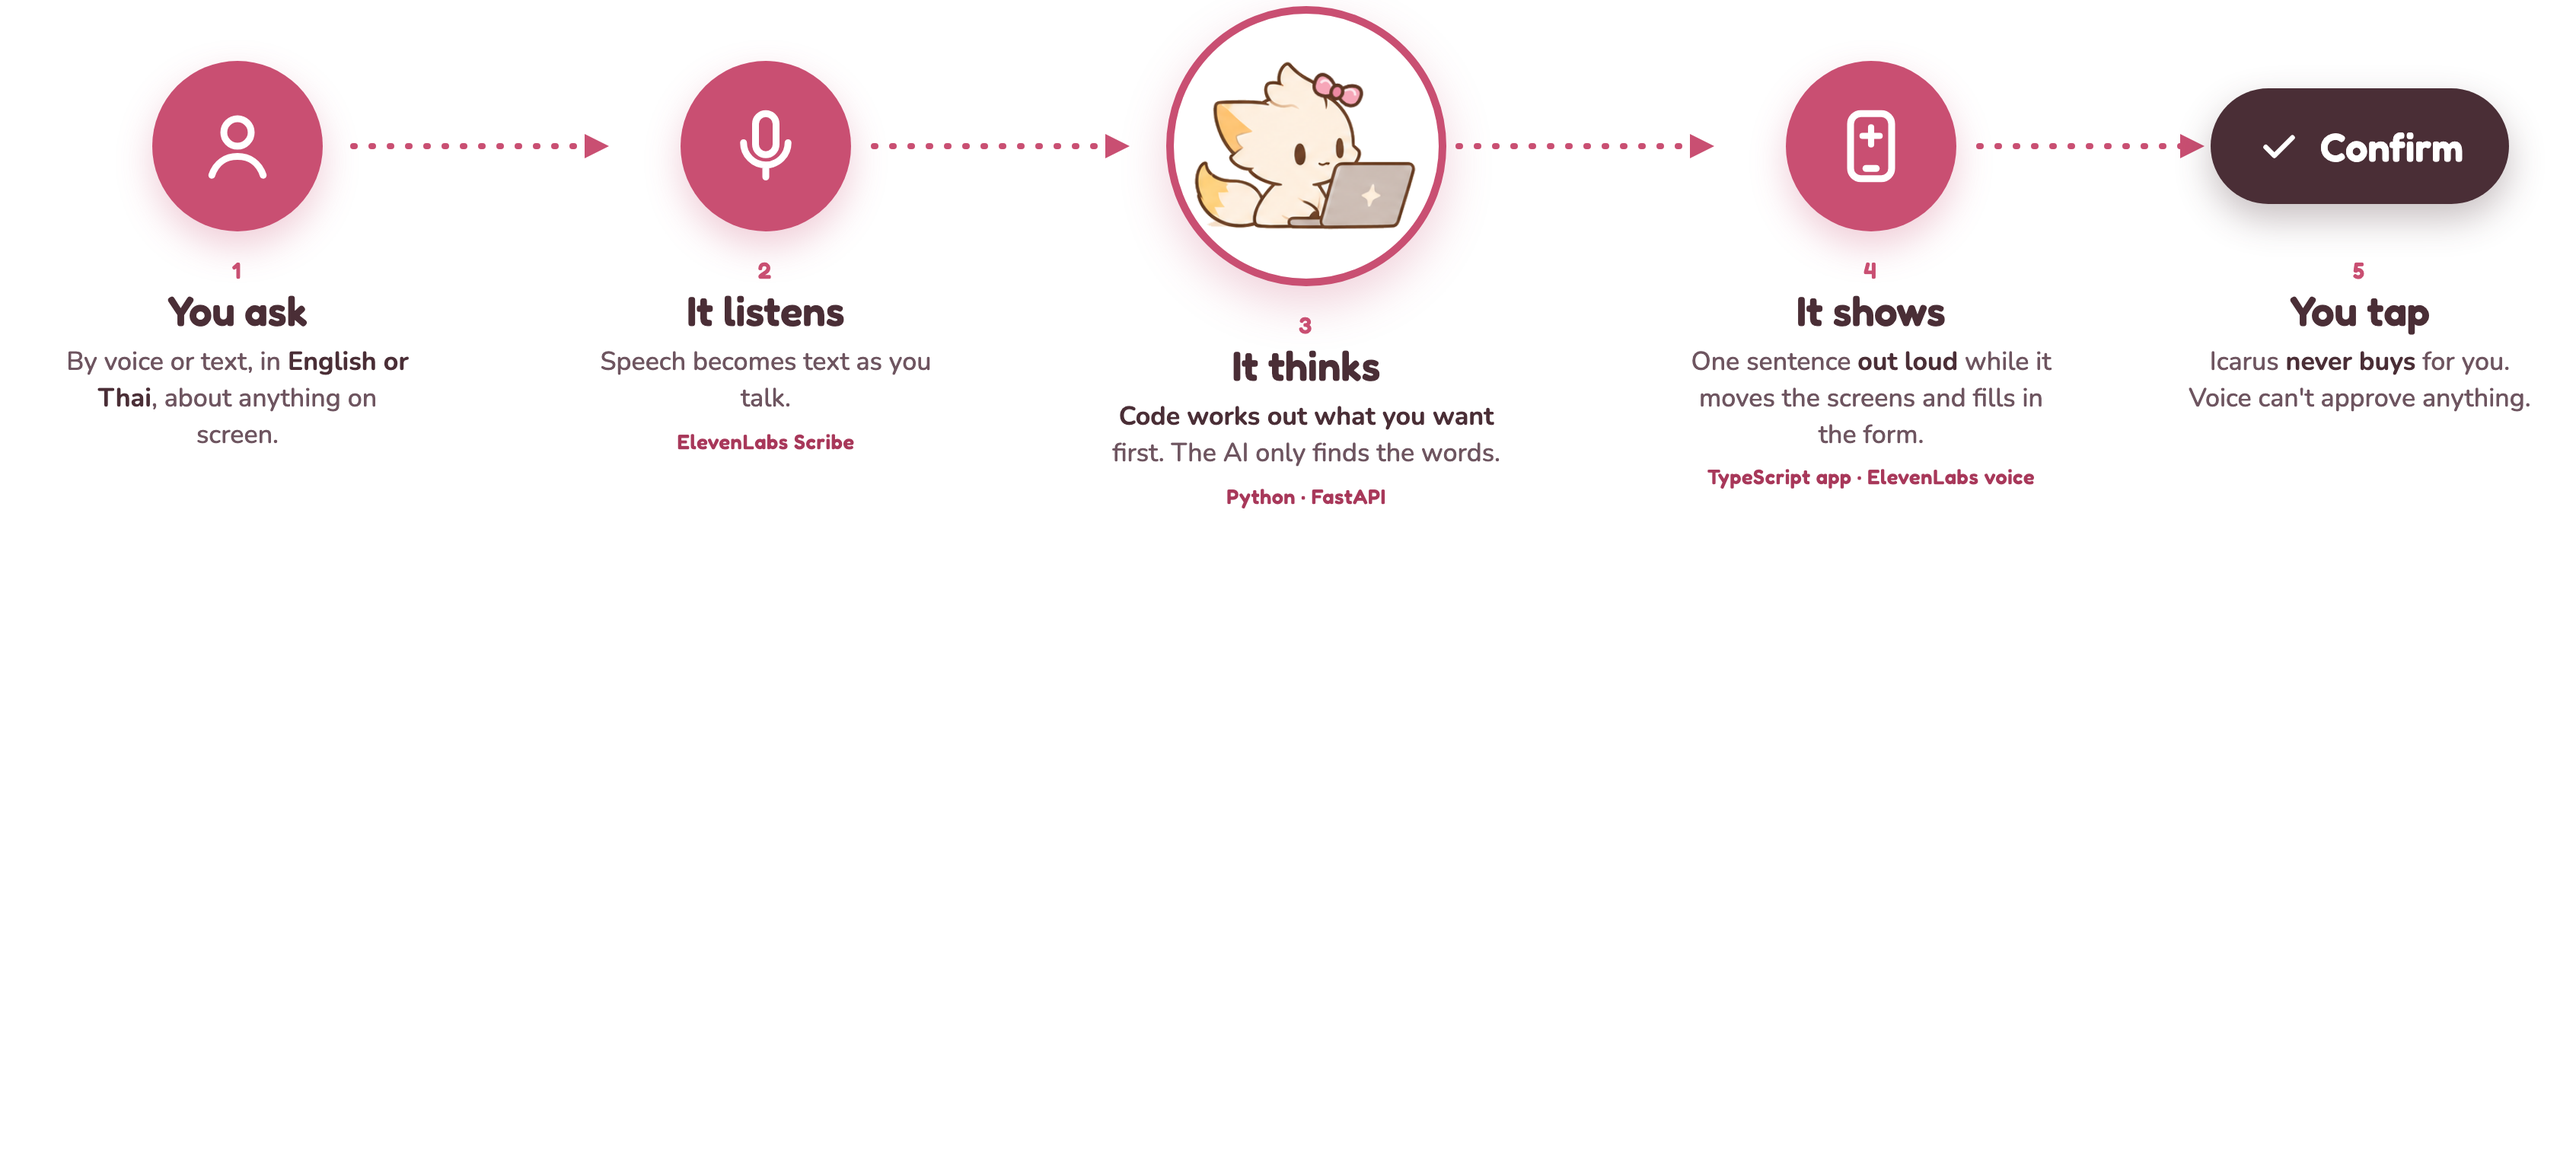
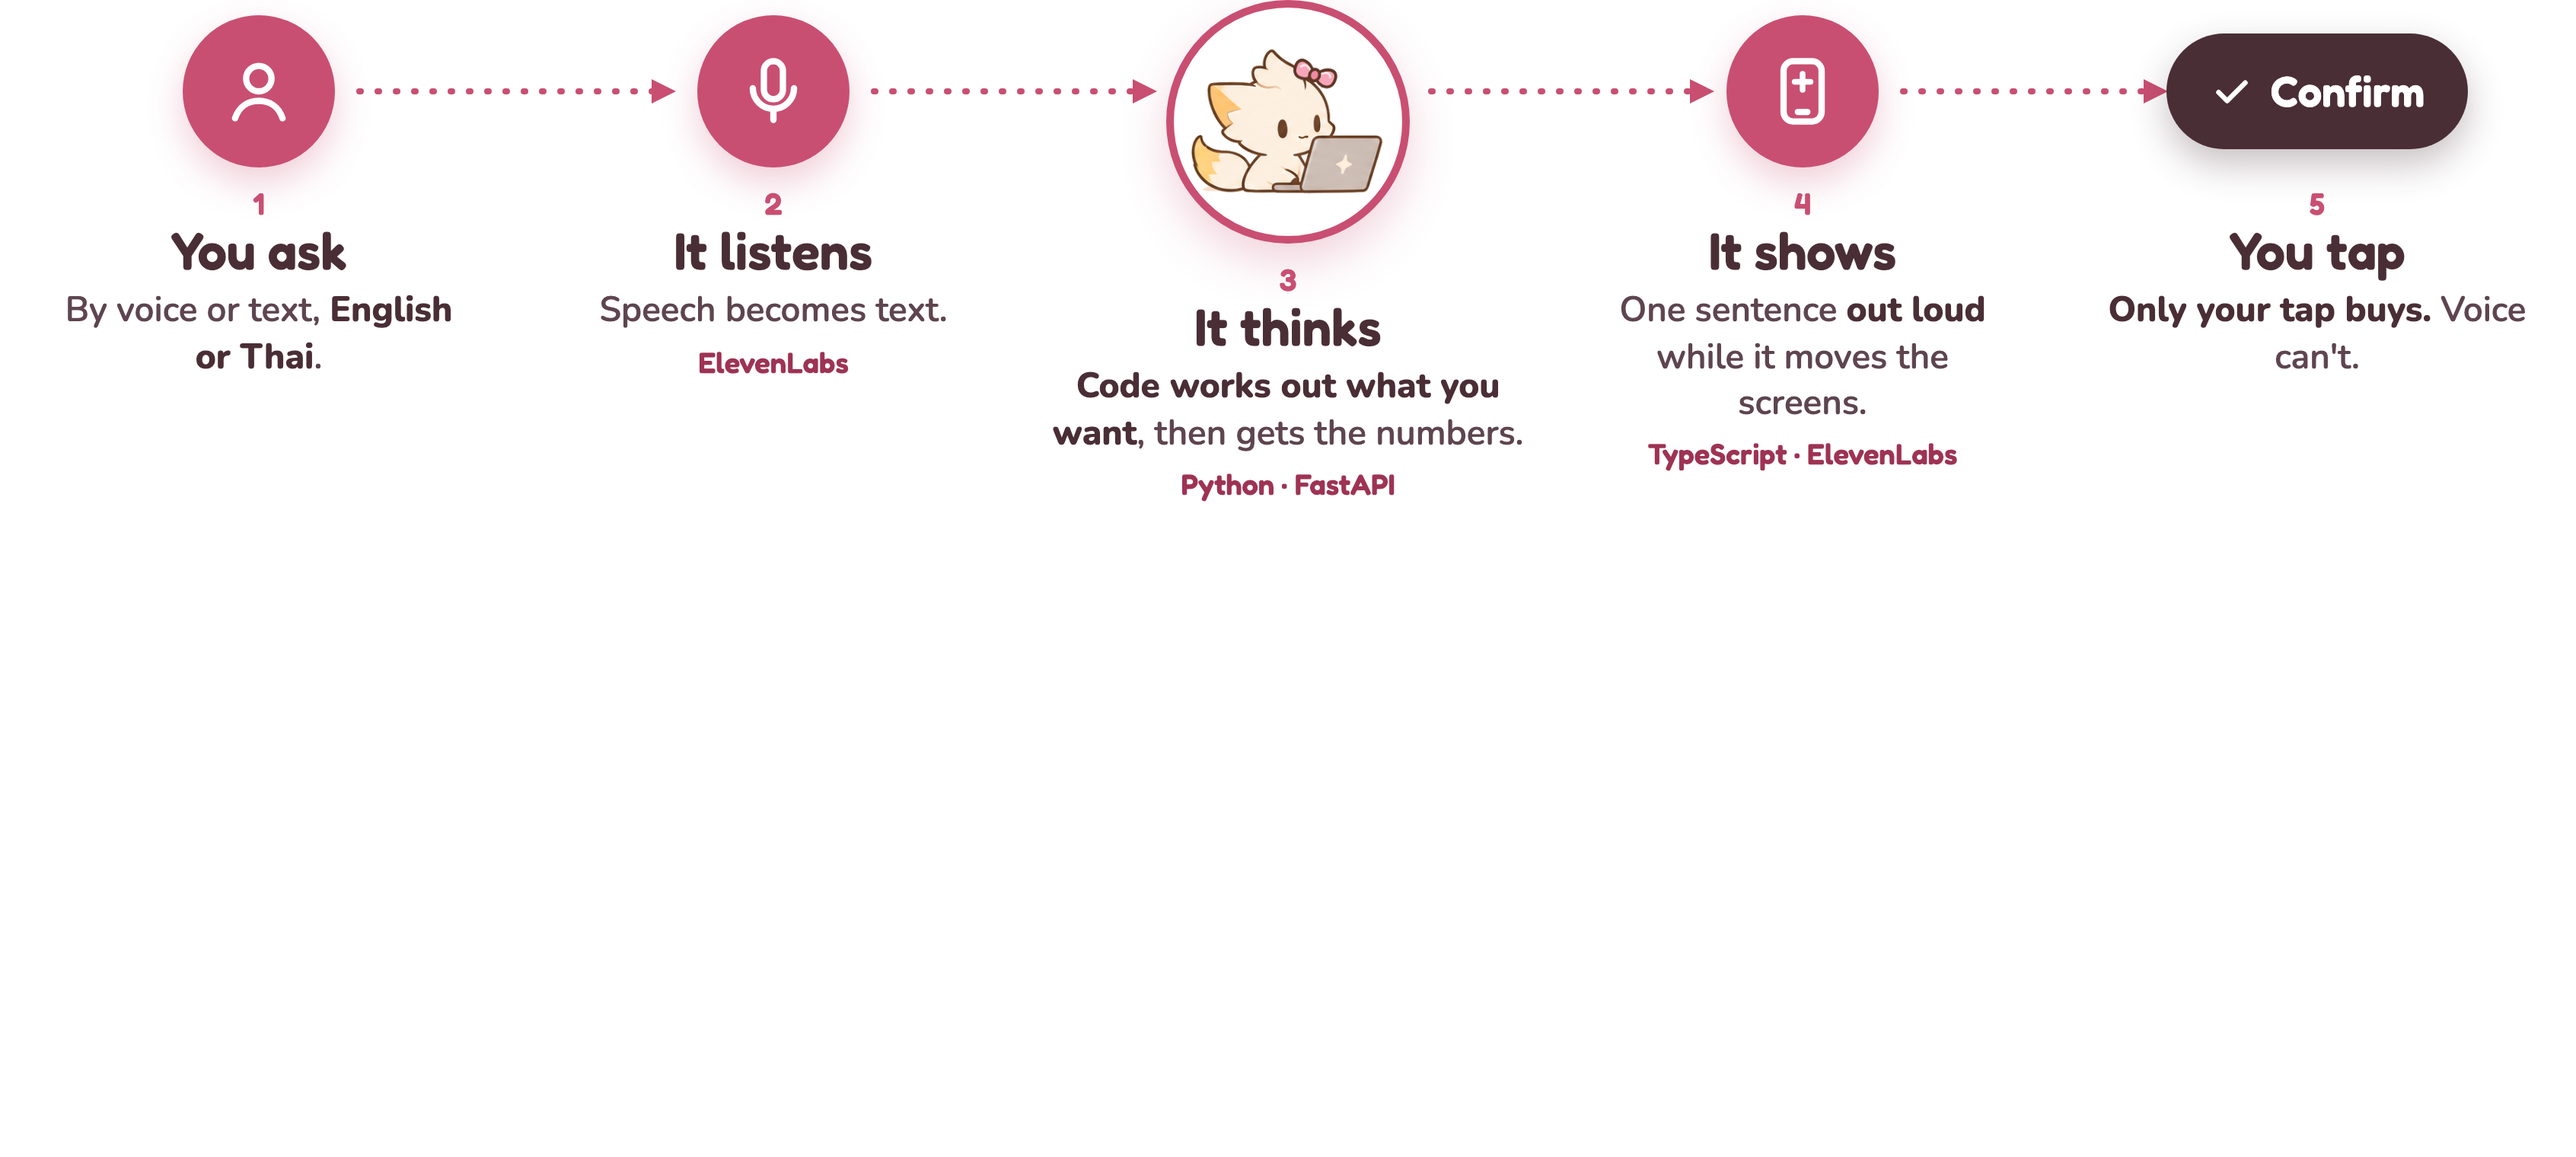
Honest tour line, live-price label on the review screen, bigger architecture type
- The tour's "should I buy some?" answer offered to set up a purchase right after
  refusing to pick; it now offers facts (how gold's price moved, what it is).
- The buy review screen said "Prices are demo data" with live prices; it now says
  prices are live and the account is a demo.
- docs/architecture.html: half the words and about 1.4x the type, so it reads on a
  slide at laptop size; "prepared answers grow with every question" was more than
  the code does: new questions are logged, so more answers get added.

Found by the deck audit.

diff --git a/docs/architecture.html b/docs/architecture.html
@@ -1,5 +1,6 @@
 <!doctype html>
-<!-- How Icarus works, drawn with symbols instead of boxes, for the deck and the README.
+<!-- How Icarus works, drawn with symbols instead of boxes, for the deck and the README. Big type: it has to read on
+     a slide shown at laptop size.
      Render: PLAYWRIGHT=/path/to/node_modules/playwright node docs/render-architecture.cjs
      It writes docs/media/architecture.png (whole picture) and architecture-1/2/3.png (transparent layers that the
      deck reveals one after the other). ?layer=1|2|3 shows one layer only. -->
@@ -7,144 +8,134 @@
 <head>
 <meta charset="utf-8">
 <title>How Icarus works</title>
-<link rel="stylesheet" href="https://fonts.googleapis.com/css2?family=Fredoka:wght@500;600&family=Nunito:wght@500;700&display=swap">
+<link rel="stylesheet" href="https://fonts.googleapis.com/css2?family=Fredoka:wght@500;600&family=Nunito:wght@600;700;800&display=swap">
 <style>
-  :root { --pink: #C94F72; --deep: #A8385A; --rose: #F7D2DC; --blush: #FDE3EA; --paper: #FFF7F9; --ink: #4A2E36; --soft: #6E5560; --gold: #E9A83B; }
+  :root { --pink: #C94F72; --deep: #9E3354; --paper: #FFF7F9; --ink: #4A2E36; --soft: #5E4550; --gold: #E9A83B; }
   * { box-sizing: border-box; margin: 0; }
   body { width: 1692px; height: 760px; background: var(--paper); font-family: Nunito, system-ui, sans-serif; color: var(--ink); position: relative; overflow: hidden; }
   body.layers { background: transparent; }
   .layer { position: absolute; left: 0; top: 0; width: 1692px; height: 760px; }
   .node { position: absolute; display: flex; flex-direction: column; align-items: center; text-align: center; }
-  .disc { width: 112px; height: 112px; border-radius: 50%; background: var(--pink); display: flex; align-items: center; justify-content: center;
+  .disc { width: 100px; height: 100px; border-radius: 50%; background: var(--pink); display: flex; align-items: center; justify-content: center;
     box-shadow: 0 10px 24px rgba(201, 79, 114, .28); }
-  .disc svg { width: 54px; height: 54px; }
-  .num { font: 600 15px Fredoka, sans-serif; letter-spacing: 1.5px; color: var(--pink); margin-top: 16px; }
-  h3 { font: 600 27px/1.15 Fredoka, sans-serif; color: var(--ink); margin-top: 2px; }
-  p { font-size: 17px; line-height: 1.4; color: var(--soft); margin-top: 6px; }
-  p b { color: var(--ink); font-weight: 700; }
-  .tag { font: 600 13.5px Fredoka, sans-serif; color: var(--deep); margin-top: 8px; letter-spacing: .3px; }
-  .label { position: absolute; font: 600 15px Fredoka, sans-serif; letter-spacing: 2px; text-transform: uppercase; color: var(--pink); }
+  .disc svg { width: 50px; height: 50px; }
+  .num { font: 600 20px Fredoka, sans-serif; color: var(--pink); margin-top: 12px; }
+  h3 { font: 600 34px/1.1 Fredoka, sans-serif; color: var(--ink); }
+  p { font-size: 23px; line-height: 1.32; font-weight: 600; color: var(--soft); margin-top: 6px; }
+  p b { color: var(--ink); font-weight: 800; }
+  .tag { font: 600 19px Fredoka, sans-serif; color: var(--deep); margin-top: 6px; }
+  .label { position: absolute; font: 600 19px Fredoka, sans-serif; letter-spacing: 2px; text-transform: uppercase; color: var(--deep); }
   .exit { position: absolute; display: flex; align-items: center; gap: 14px; }
-  .exit .mini { width: 46px; height: 46px; border-radius: 50%; background: var(--gold); display: flex; align-items: center; justify-content: center; flex: none; }
-  .exit .mini svg { width: 24px; height: 24px; }
-  .exit p { margin: 0; font-size: 18px; }
+  .exit .mini { width: 50px; height: 50px; border-radius: 50%; background: var(--gold); display: flex; align-items: center; justify-content: center; flex: none; }
+  .exit .mini svg { width: 26px; height: 26px; }
+  .exit p { margin: 0; font-size: 24px; color: var(--ink); }
 </style>
 </head>
 <body>
 
-<!-- ===== layer 1: the conversation, five stations ===== -->
+<!-- ===== layer 1: the conversation, five steps (centres 170, 508, 846, 1184, 1522) ===== -->
 <div class="layer" data-layer="1">
   <svg width="1692" height="760" viewBox="0 0 1692 760" style="position:absolute;left:0;top:0">
     <defs><marker id="tip" viewBox="0 0 10 10" refX="5" refY="5" markerWidth="5" markerHeight="5" orient="auto"><path d="M1 1 L9 5 L1 9 Z" fill="#C94F72"/></marker></defs>
     <g fill="none" stroke="#C94F72" stroke-width="4" stroke-linecap="round" stroke-dasharray="1 11">
-      <path d="M232 96 L392 96" marker-end="url(#tip)"/>
-      <path d="M574 96 L734 96" marker-end="url(#tip)"/>
-      <path d="M958 96 L1118 96" marker-end="url(#tip)"/>
-      <path d="M1300 96 L1440 96" marker-end="url(#tip)"/>
+      <path d="M236 60 L436 60" marker-end="url(#tip)"/>
+      <path d="M574 60 L752 60" marker-end="url(#tip)"/>
+      <path d="M940 60 L1118 60" marker-end="url(#tip)"/>
+      <path d="M1250 60 L1416 60" marker-end="url(#tip)"/>
     </g>
   </svg>
-
-  <div class="node" style="left:36px;top:40px;width:240px">
+  <div class="node" style="left:30px;top:10px;width:280px">
     <div class="disc"><svg viewBox="0 0 24 24" fill="none" stroke="#fff" stroke-width="2" stroke-linecap="round" stroke-linejoin="round"><circle cx="12" cy="8" r="4"/><path d="M4.5 20.5c1.2-3.6 4-5.5 7.5-5.5s6.3 1.9 7.5 5.5"/></svg></div>
     <div class="num">1</div><h3>You ask</h3>
-    <p>By voice or text, in <b>English or Thai</b>, about anything on screen.</p>
+    <p>By voice or text, <b>English or Thai</b>.</p>
   </div>
-
-  <div class="node" style="left:378px;top:40px;width:250px">
+  <div class="node" style="left:368px;top:10px;width:280px">
     <div class="disc"><svg viewBox="0 0 24 24" fill="none" stroke="#fff" stroke-width="2" stroke-linecap="round"><rect x="9" y="2.5" width="6" height="12" rx="3"/><path d="M5.5 11a6.5 6.5 0 0 0 13 0M12 17.5V21"/></svg></div>
     <div class="num">2</div><h3>It listens</h3>
-    <p>Speech becomes text as you talk.</p>
-    <div class="tag">ElevenLabs Scribe</div>
+    <p>Speech becomes text.</p>
+    <div class="tag">ElevenLabs</div>
   </div>
-
-  <div class="node" style="left:718px;top:4px;width:280px">
-    <div style="width:184px;height:184px;border-radius:50%;background:#fff;border:5px solid var(--pink);display:flex;align-items:center;justify-content:center;box-shadow:0 12px 30px rgba(201,79,114,.25)">
-      <img src="../frontend/public/mascot/bow/working.png" alt="" style="width:150px;height:150px;object-fit:contain">
+  <div class="node" style="left:686px;top:0;width:320px">
+    <div style="width:160px;height:160px;border-radius:50%;background:#fff;border:5px solid var(--pink);display:flex;align-items:center;justify-content:center;box-shadow:0 12px 30px rgba(201,79,114,.25)">
+      <img src="../frontend/public/mascot/bow/working.png" alt="" style="width:130px;height:130px;object-fit:contain">
     </div>
     <div class="num">3</div><h3>It thinks</h3>
-    <p><b>Code works out what you want</b> first. The AI only finds the words.</p>
+    <p><b>Code works out what you want</b>, then gets the numbers.</p>
     <div class="tag">Python · FastAPI</div>
   </div>
-
-  <div class="node" style="left:1104px;top:40px;width:250px">
+  <div class="node" style="left:1044px;top:10px;width:280px">
     <div class="disc"><svg viewBox="0 0 24 24" fill="none" stroke="#fff" stroke-width="2" stroke-linecap="round" stroke-linejoin="round"><rect x="6" y="2.5" width="12" height="19" rx="3"/><path d="M10.5 18.5h3"/><path d="M12 6.5v5m-2.5-2.5h5" stroke-width="1.8"/></svg></div>
     <div class="num">4</div><h3>It shows</h3>
-    <p>One sentence <b>out loud</b> while it moves the screens and fills in the form.</p>
-    <div class="tag">TypeScript app · ElevenLabs voice</div>
+    <p>One sentence <b>out loud</b> while it moves the screens.</p>
+    <div class="tag">TypeScript · ElevenLabs</div>
   </div>
-
-  <div class="node" style="left:1430px;top:58px;width:240px">
-    <div style="height:76px;padding:0 30px;border-radius:38px;background:var(--ink);color:#fff;display:flex;align-items:center;gap:12px;font:600 26px Fredoka,sans-serif;box-shadow:0 10px 24px rgba(74,46,54,.3)">
+  <div class="node" style="left:1382px;top:22px;width:280px">
+    <div style="height:76px;padding:0 28px;border-radius:38px;background:var(--ink);color:#fff;display:flex;align-items:center;gap:10px;font:600 28px Fredoka,sans-serif;box-shadow:0 10px 24px rgba(74,46,54,.3)">
       <svg viewBox="0 0 24 24" width="30" height="30" fill="none" stroke="#fff" stroke-width="2.6" stroke-linecap="round" stroke-linejoin="round"><path d="m5 12.5 4.5 4.5L19 7.5"/></svg>Confirm</div>
-    <div class="num" style="margin-top:34px">5</div><h3>You tap</h3>
-    <p>Icarus <b>never buys</b> for you. Voice can't approve anything.</p>
+    <div class="num" style="margin-top:24px">5</div><h3>You tap</h3>
+    <p><b>Only your tap buys.</b> Voice can't.</p>
   </div>
 </div>
 
-<!-- ===== layer 2: what it thinks with ===== -->
+<!-- ===== layer 2: what it thinks with (centres 210, 634, 1058, 1482) ===== -->
 <div class="layer" data-layer="2">
   <svg width="1692" height="760" viewBox="0 0 1692 760" style="position:absolute;left:0;top:0">
     <defs><marker id="tip2" viewBox="0 0 10 10" refX="5" refY="5" markerWidth="5" markerHeight="5" orient="auto"><path d="M1 1 L9 5 L1 9 Z" fill="#C94F72"/></marker></defs>
     <g fill="none" stroke="#C94F72" stroke-width="4" stroke-linecap="round" stroke-dasharray="1 11">
-      <path d="M858 376 L858 404"/>
-      <path d="M246 404 L1446 404"/>
-      <path d="M246 404 L246 440" marker-end="url(#tip2)"/>
-      <path d="M646 404 L646 440" marker-end="url(#tip2)"/>
-      <path d="M1046 404 L1046 440" marker-end="url(#tip2)"/>
-      <path d="M1446 404 L1446 440" marker-end="url(#tip2)"/>
+      <path d="M846 348 L846 376"/>
+      <path d="M210 376 L1482 376"/>
+      <path d="M210 376 L210 404" marker-end="url(#tip2)"/>
+      <path d="M634 376 L634 404" marker-end="url(#tip2)"/>
+      <path d="M1058 376 L1058 404" marker-end="url(#tip2)"/>
+      <path d="M1482 376 L1482 404" marker-end="url(#tip2)"/>
     </g>
-    <!-- database: prepared answers -->
-    <g transform="translate(206 452)">
+    <g transform="translate(170 414)">
       <path d="M0 14 v52 c0 8 18 14 40 14 s40-6 40-14 V14" fill="#F48FB1"/>
       <path d="M0 40 c0 8 18 14 40 14 s40-6 40-14" fill="none" stroke="#fff" stroke-width="3"/>
       <ellipse cx="40" cy="14" rx="40" ry="14" fill="#C94F72"/>
     </g>
-    <!-- cloud with a spark: the AI -->
-    <g transform="translate(596 460)">
+    <g transform="translate(584 420)">
       <path d="M22 70 h62 a22 22 0 0 0 2-44 a30 30 0 0 0-57-6 a24 24 0 0 0-7 50z" fill="#C94F72"/>
       <path d="M52 30 l5 13 13 5-13 5-5 13-5-13-13-5 13-5z" fill="#fff"/>
     </g>
-    <!-- a chart on a screen: live data -->
-    <g transform="translate(1000 458)">
+    <g transform="translate(1012 418)">
       <rect x="0" y="0" width="92" height="66" rx="10" fill="#C94F72"/>
       <path d="M14 48 l18-17 13 10 20-22 13 9" fill="none" stroke="#fff" stroke-width="5" stroke-linecap="round" stroke-linejoin="round"/>
-      <path d="M34 74 h24" stroke="#C94F72" stroke-width="6" stroke-linecap="round"/>
+      <path d="M34 76 h24" stroke="#C94F72" stroke-width="6" stroke-linecap="round"/>
     </g>
-    <!-- shield: house rules -->
-    <g transform="translate(1410 452)">
+    <g transform="translate(1446 414)">
       <path d="M36 0 L72 13 v25 c0 22-15 37-36 44 C15 75 0 60 0 38 V13z" fill="#C94F72"/>
       <path d="m21 39 10 10 20-21" fill="none" stroke="#fff" stroke-width="5.5" stroke-linecap="round" stroke-linejoin="round"/>
     </g>
   </svg>
-  <div class="label" style="left:884px;top:380px">what it thinks with</div>
-
-  <div class="node" style="left:96px;top:552px;width:300px">
+  <div class="label" style="left:872px;top:340px">what it thinks with</div>
+  <div class="node" style="left:30px;top:506px;width:360px">
     <h3>Prepared answers</h3>
-    <p>Fact sheets for every asset and user, <b>ready before you ask</b>. It grows with every new question.</p>
+    <p>Ready <b>before you ask</b>. New questions are logged, so more get added.</p>
   </div>
-  <div class="node" style="left:496px;top:552px;width:300px">
+  <div class="node" style="left:454px;top:506px;width:360px">
     <h3>AI in the cloud</h3>
-    <p>An open model (<b>Qwen 3.8-27B</b>) words new answers. If it's slow, a <b>backup model</b> answers.</p>
+    <p>Words new answers. A <b>backup model</b> steps in if it's slow.</p>
   </div>
-  <div class="node" style="left:896px;top:552px;width:300px">
+  <div class="node" style="left:878px;top:506px;width:360px">
     <h3>Live data</h3>
-    <p>Market prices, the baht rate and <b>your account</b>. Every number comes from here.</p>
+    <p>Prices, the baht rate and <b>your account</b>.</p>
   </div>
-  <div class="node" style="left:1296px;top:552px;width:300px">
+  <div class="node" style="left:1302px;top:506px;width:360px">
     <h3>House rules</h3>
-    <p><b>No buy or sell advice.</b> No made-up numbers. No claims it can't back.</p>
+    <p><b>No buy or sell advice.</b> Numbers only from data.</p>
   </div>
 </div>
 
 <!-- ===== layer 3: what goes out ===== -->
 <div class="layer" data-layer="3">
-  <div class="exit" style="left:96px;top:702px;width:720px">
+  <div class="exit" style="left:80px;top:690px;width:760px">
     <div class="mini"><svg viewBox="0 0 24 24" fill="#fff"><path d="M21.5 2.5 2.8 10.3l7 2.6 2.6 7z"/></svg></div>
-    <p><b>Not finance?</b> Rides, flights, shopping: Icarus writes the request for <b>U-Bot</b>.</p>
+    <p><b>Not finance?</b> Icarus writes the request for <b>U-Bot</b>.</p>
   </div>
-  <div class="exit" style="left:896px;top:702px;width:720px">
+  <div class="exit" style="left:900px;top:690px;width:760px">
     <div class="mini"><svg viewBox="0 0 24 24" fill="none" stroke="#fff" stroke-width="2.6" stroke-linecap="round"><path d="M5 20V12M10 20V6M15 20v-9M20 20V4"/></svg></div>
-    <p><b>Every question</b> lands on a friction map: where users get stuck.</p>
+    <p><b>Every question</b> lands on the friction map.</p>
   </div>
 </div>
 

diff --git a/frontend/src/judge-copy.ts b/frontend/src/judge-copy.ts
@@ -56,6 +56,8 @@ export const PRODUCT_POLISH: ReadonlyArray<readonly [string, string]> = [
 
 export const LIVE_DATA_COPY: ReadonlyArray<readonly [string, string]> = [
   ['Demo prices · not live', 'Live prices, in baht'],
+  ['Prices are demo data. The final quantity may differ slightly when the order fills.',
+    'Prices are live; the account is a demo. The final quantity may differ slightly when the order fills.'],
   // the swap starts from the THB wallet the demo account really has (demo-data.ts fills the numbers)
   ['background:#26A17B;color:#fff;display:flex;align-items:center;justify-content:center;font-weight:600">₮<',
     'background:#C94F72;color:#fff;display:flex;align-items:center;justify-content:center;font-weight:600">฿<'],

diff --git a/frontend/src/tour.ts b/frontend/src/tour.ts
@@ -92,7 +92,8 @@ export const STEPS: Step[] = [
   {
     ask: 'Should I buy some?',
     lang: 'en',
-    answer: () => reply("That's your call, so I won't pick for you. But I can set up a purchase that you confirm.", [], 'curious'),
+    // No nudge to buy right after refusing to pick (house rule 1): offer facts instead.
+    answer: () => reply("That's your call, so I won't pick for you. I can show you how gold's price has moved, or explain what it is.", [], 'curious'),
   },
   {
     ask: 'Put 1,000 baht in gold',
